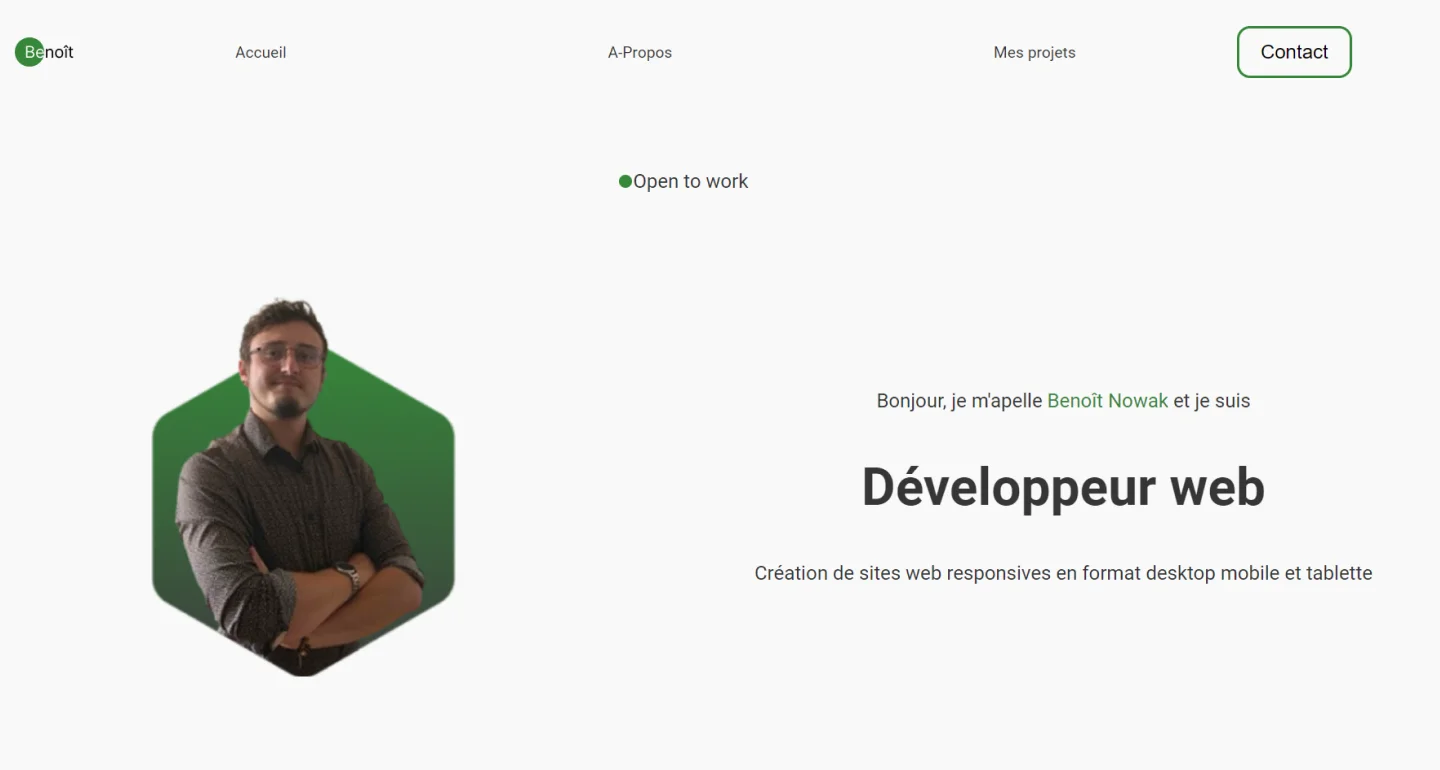
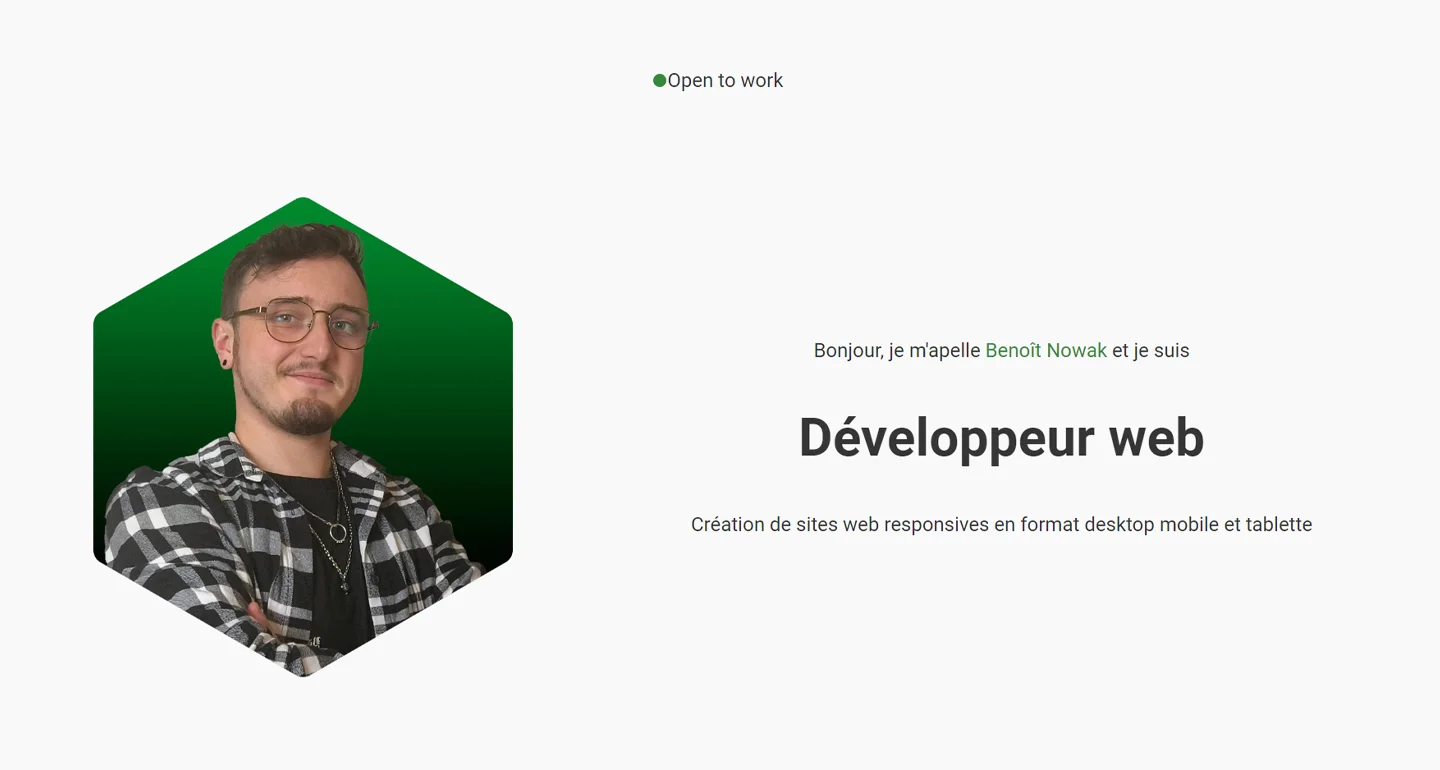
Modification des images (HD)

diff --git a/src/views/Accueil.vue b/src/views/Accueil.vue
@@ -42,6 +42,11 @@ import Fin from "@/components/footer/Fin.vue";
     justify-content: center;
 }
 
+img{
+    width: 80%;
+   
+}
+
 @media screen and (min-width: 1024px) {
     .grille_pour_desktop {
         margin: 8rem 0;
@@ -50,9 +55,10 @@ import Fin from "@/components/footer/Fin.vue";
         grid-template-rows: 1fr;
         justify-items: center;
         align-items: center;
+        margin-right: 10rem;
 
         img{
-            width: 40%;
+            width: 60%;
         }
 
 }

diff --git a/src/views/Apropos.vue b/src/views/Apropos.vue
@@ -42,18 +42,21 @@ import MesProjets from "@/components/boutons/MesProjets.vue";
 
 <style scoped>
 
-
+img{
+    width: 60%;
+   
+}
 @media screen and (min-width: 1024px) {
       
 .container {
-      margin: 8rem 0;
+      margin: 8rem 3rem;
       display: grid;
       grid-template-columns: 1fr 1fr;
       gap: 2rem;
 }
 
 img{
-      width: 40%;
+      width: 60%;
 }
 
 }
